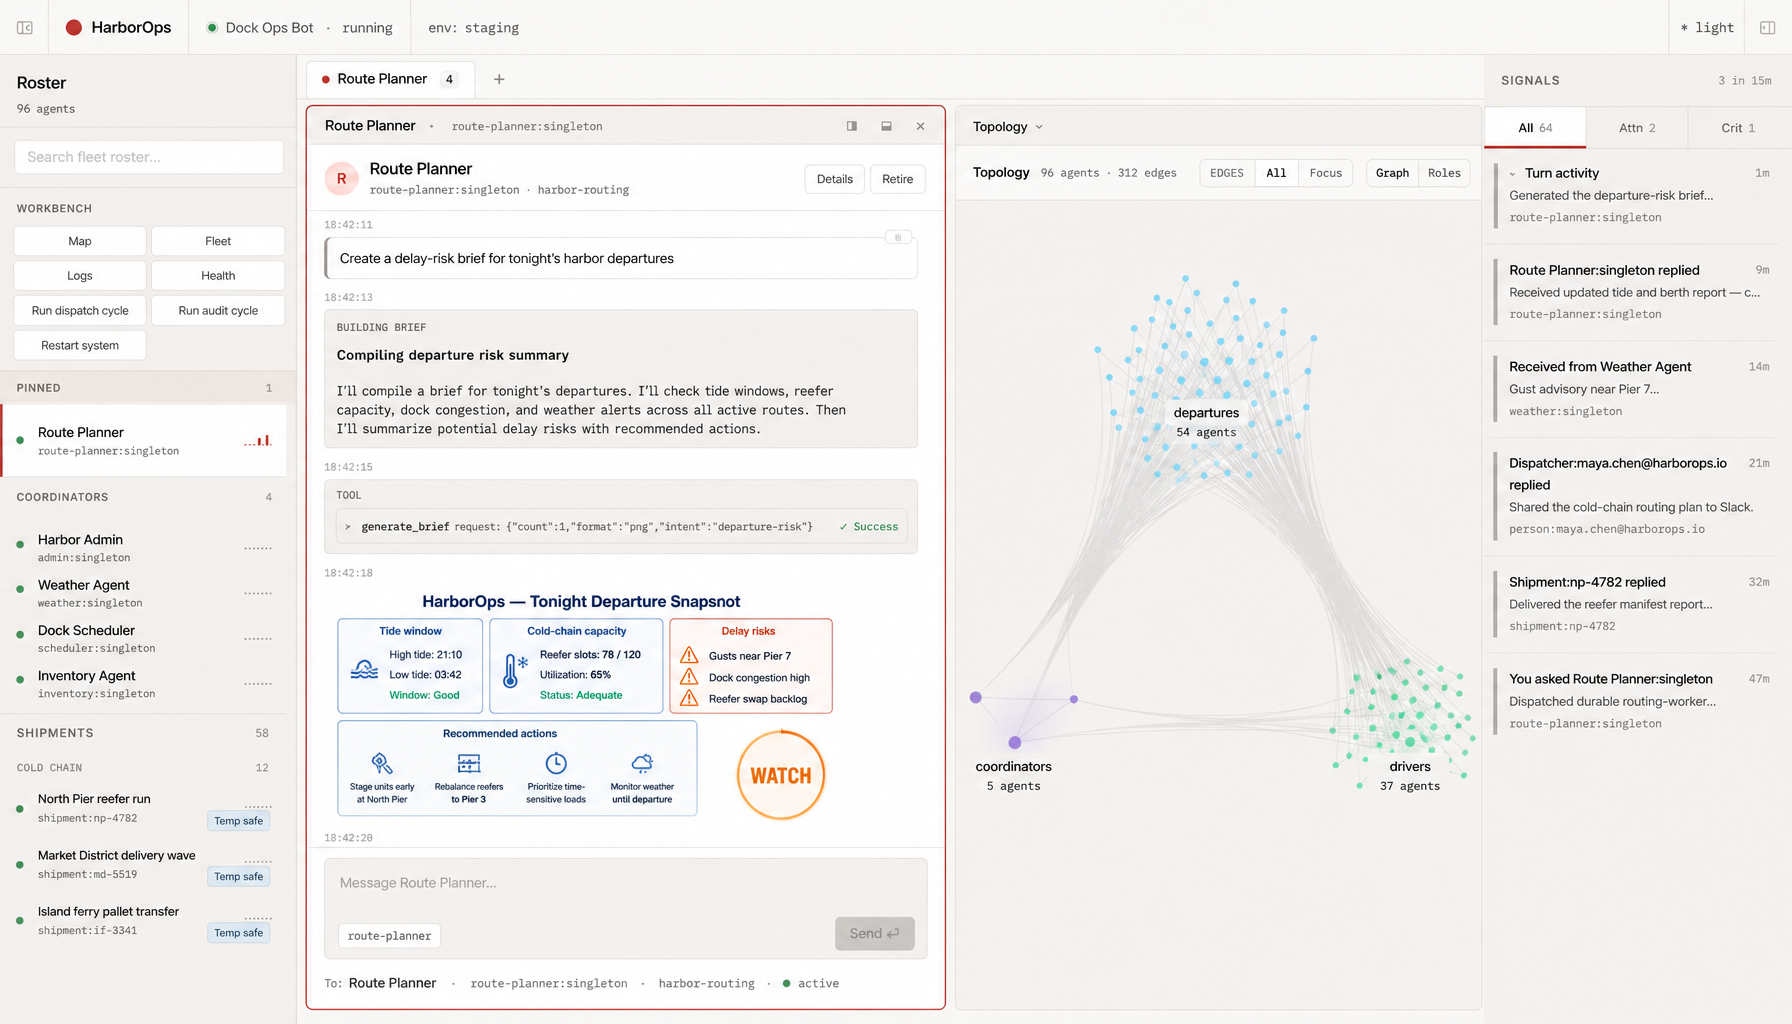
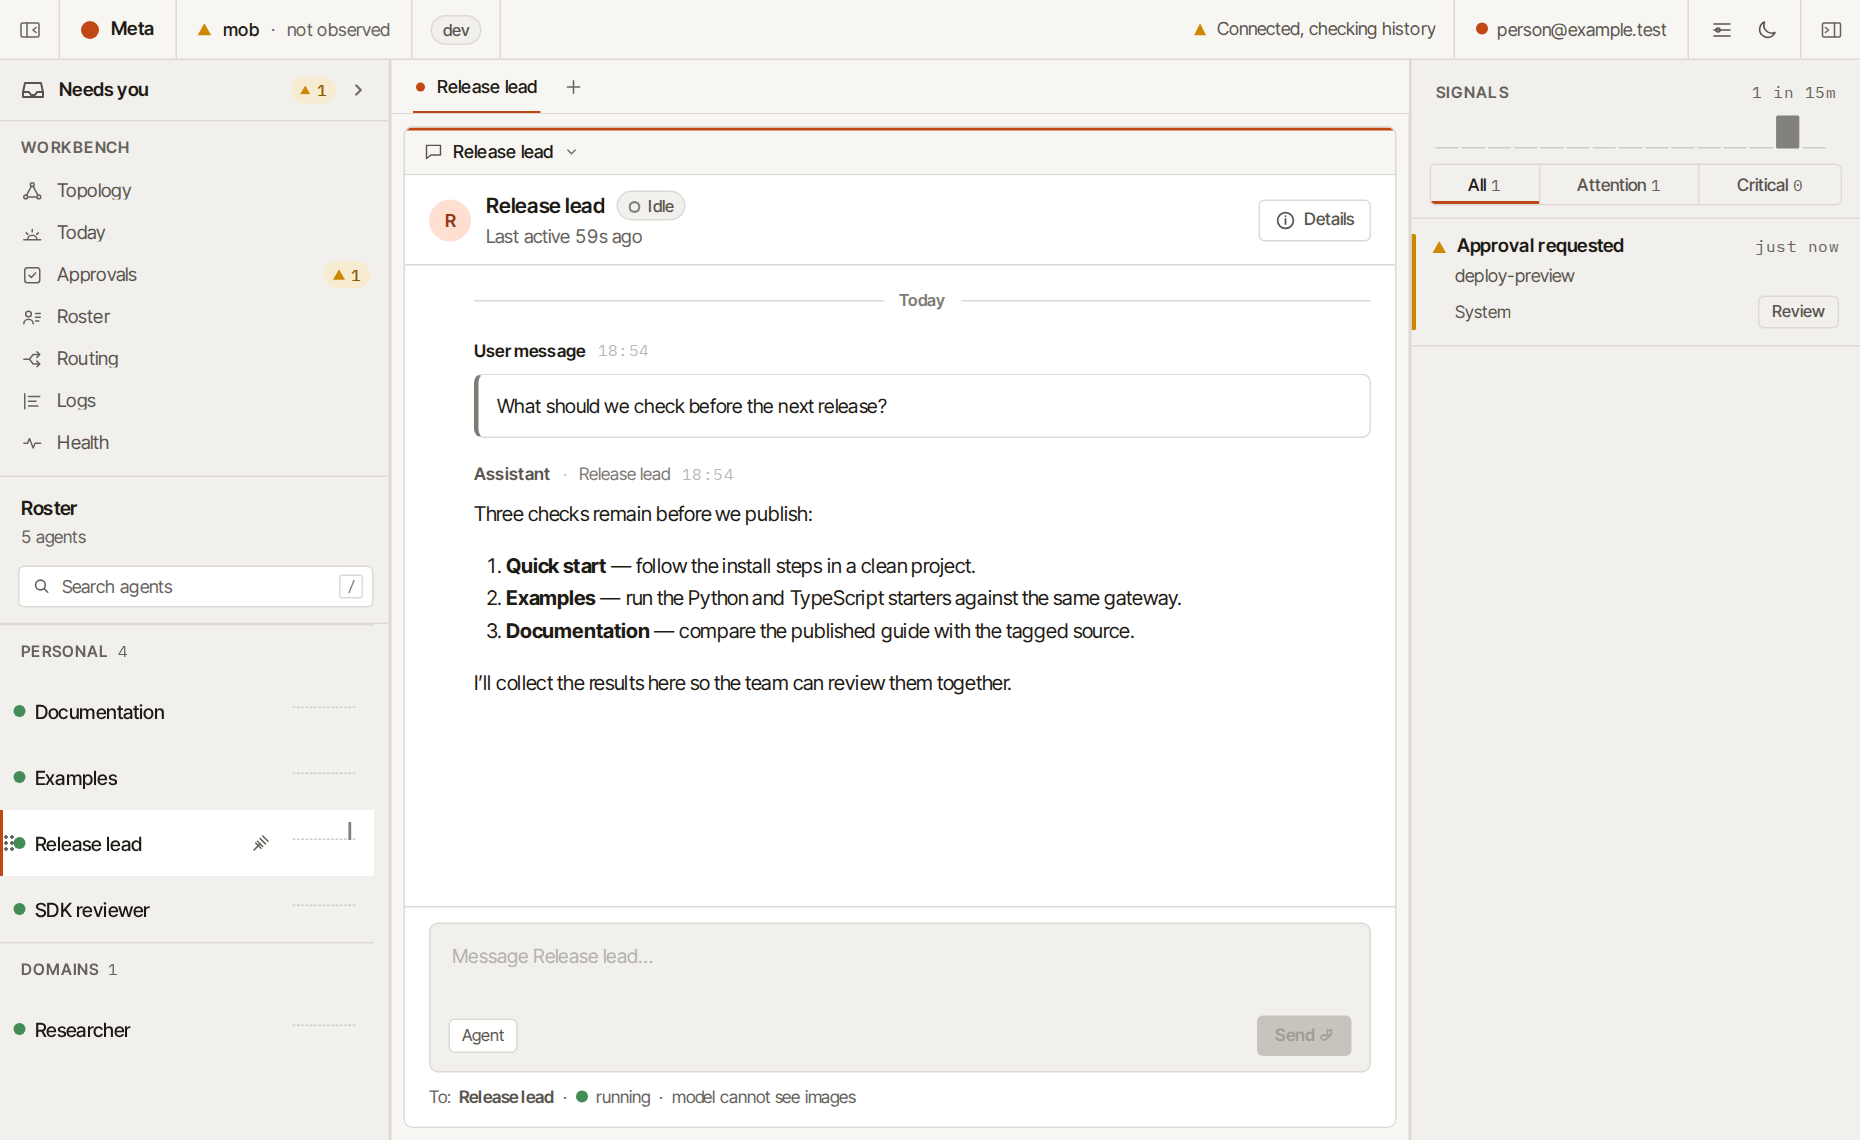
Refresh the Meerkat Meta console screenshot in both READMEs

diff --git a/meta/README.md b/meta/README.md
@@ -71,7 +71,7 @@ control a gateway; they do not bundle its executable. Rust hosts can embed Meta.
   work, approvals and the timeline in one browser interface.
 
 <p align="center">
-  <img src="docs/images/meta-console.png" alt="Meta console with conversations, topology and roster" width="900">
+  <img src="docs/images/meta-console.png" alt="Meerkat Meta console showing a sample team conversation, the agent roster, and a pending approval" width="900">
 </p>
 
 Core owns the agent loop, sessions, stable agent identity, spawning, mob

diff --git a/README.md b/README.md
@@ -329,7 +329,7 @@ crate ownership, construction paths and failure domains.
 ## Meerkat Meta
 
 <p align="center">
-  <img src="meta/docs/images/meta-console.png" alt="Meta console with conversations, topology and roster" width="900">
+  <img src="meta/docs/images/meta-console.png" alt="Meerkat Meta console showing a sample team conversation, the agent roster, and a pending approval" width="900">
 </p>
 
 Meerkat Meta composes Core agents into applications with lasting identities,
